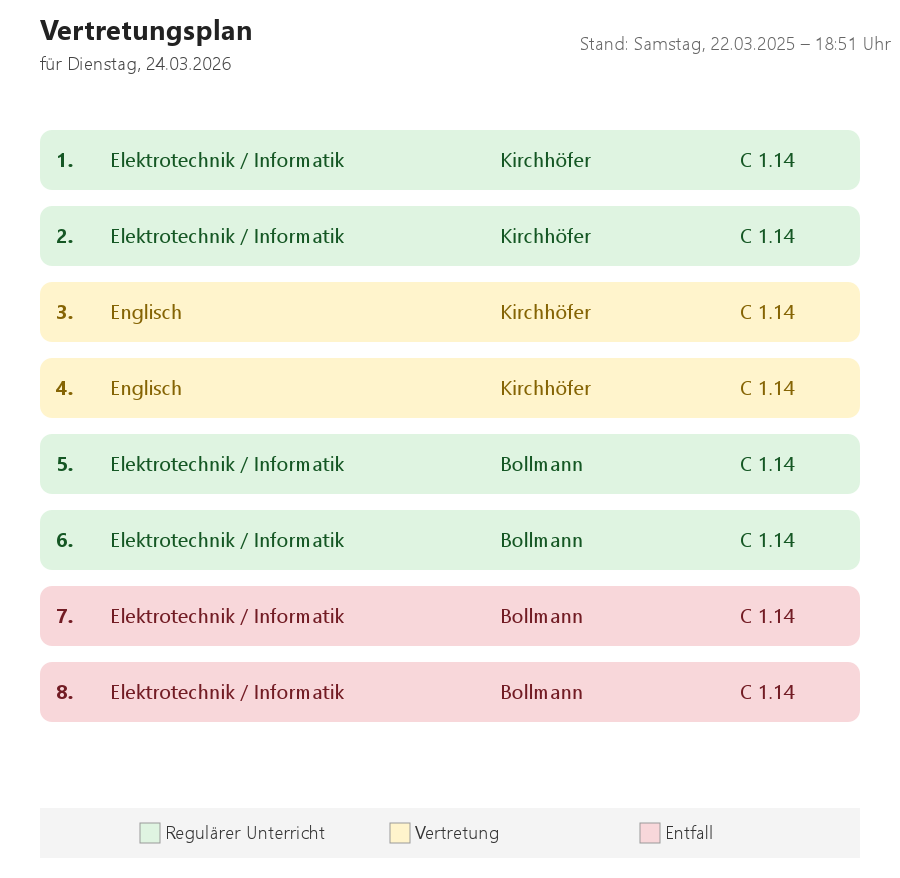
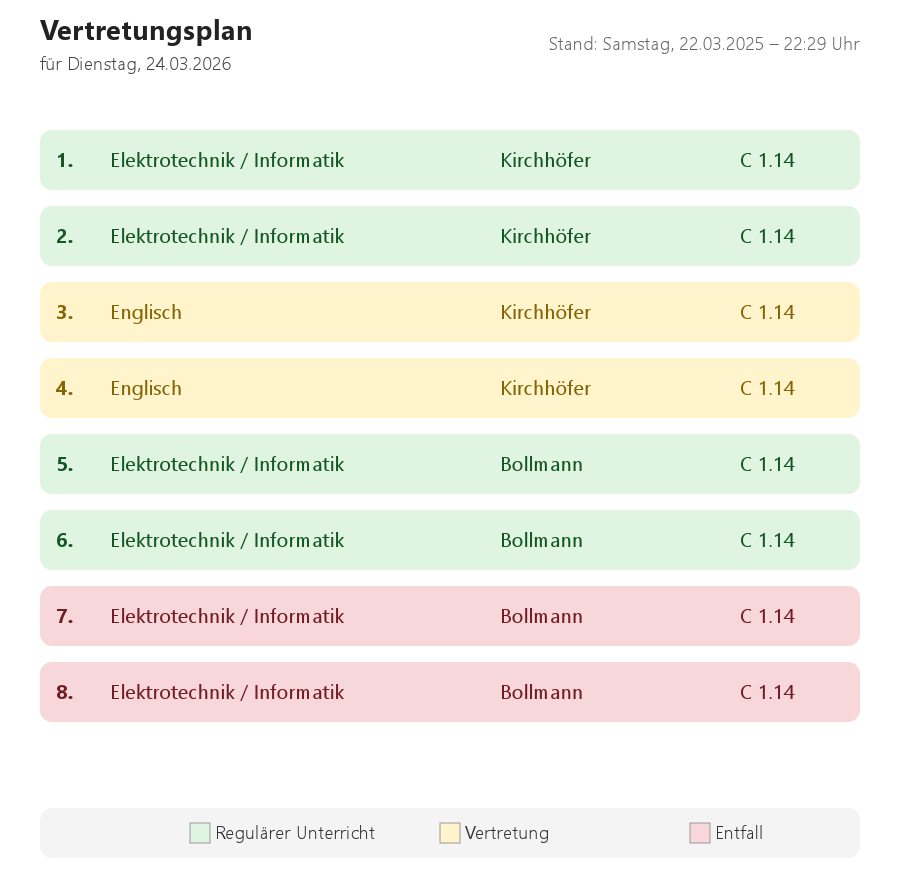
some changes

diff --git a/index.js b/index.js
@@ -4,6 +4,9 @@ const fs = require('fs');
 // 📅 Plan-Datum hier anpassen
 const PLAN_DATUM = new Date('2026-03-24'); // <-- Hier kannst du das Datum setzen
 
+// Beispiel-Daten
+const data = [{"Stunde":1,"Lehrkraft":"Kirchhöfer","Fach":"Elektrotechnik / Informatik","Raum":"C 1.14","Zusatzinfo":"","entfall":false,"vertretung":false,"originalLehrkraft":null},{"Stunde":2,"Lehrkraft":"Kirchhöfer","Fach":"Elektrotechnik / Informatik","Raum":"C 1.14","Zusatzinfo":"","entfall":false,"vertretung":false,"originalLehrkraft":null},{"Stunde":3,"Lehrkraft":"Kirchhöfer","Fach":"Englisch","Raum":"C 1.14","Zusatzinfo":", ","entfall":false,"vertretung":true,"originalLehrkraft":"Du Chesne"},{"Stunde":4,"Lehrkraft":"Kirchhöfer","Fach":"Englisch","Raum":"C 1.14","Zusatzinfo":", ","entfall":false,"vertretung":true,"originalLehrkraft":"Du Chesne"},{"Stunde":5,"Lehrkraft":"Bollmann","Fach":"Elektrotechnik / Informatik","Raum":"C 1.14","Zusatzinfo":"Arbeitsauftrag bei Ilias, Arbeitsauftrag bei Ilias","entfall":false,"vertretung":false,"originalLehrkraft":null},{"Stunde":6,"Lehrkraft":"Bollmann","Fach":"Elektrotechnik / Informatik","Raum":"C 1.14","Zusatzinfo":"Arbeitsauftrag bei Ilias, Arbeitsauftrag bei Ilias","entfall":false,"vertretung":false,"originalLehrkraft":null},{"Stunde":7,"Lehrkraft":"Bollmann","Fach":"Elektrotechnik / Informatik","Raum":"C 1.14","Zusatzinfo":"","entfall":true,"vertretung":false,"originalLehrkraft":null},{"Stunde":8,"Lehrkraft":"Bollmann","Fach":"Elektrotechnik / Informatik","Raum":"C 1.14","Zusatzinfo":"","entfall":true,"vertretung":false,"originalLehrkraft":null}];
+
 // 🔧 Layout-Settings
 const width = 900;
 const marginX = 40;
@@ -15,9 +18,6 @@ const cardRadius = 12;
 const headerHeight = 70;
 const numRows = 8;
 const height = marginY * 2 + headerHeight + (cardHeight + cardGap) * numRows + footerHeight;
-
-// Beispiel-Daten
-const data = [{"Stunde":1,"Lehrkraft":"Kirchhöfer","Fach":"Elektrotechnik / Informatik","Raum":"C 1.14","Zusatzinfo":"","entfall":false,"vertretung":false,"originalLehrkraft":null},{"Stunde":2,"Lehrkraft":"Kirchhöfer","Fach":"Elektrotechnik / Informatik","Raum":"C 1.14","Zusatzinfo":"","entfall":false,"vertretung":false,"originalLehrkraft":null},{"Stunde":3,"Lehrkraft":"Kirchhöfer","Fach":"Englisch","Raum":"C 1.14","Zusatzinfo":", ","entfall":false,"vertretung":true,"originalLehrkraft":"Du Chesne"},{"Stunde":4,"Lehrkraft":"Kirchhöfer","Fach":"Englisch","Raum":"C 1.14","Zusatzinfo":", ","entfall":false,"vertretung":true,"originalLehrkraft":"Du Chesne"},{"Stunde":5,"Lehrkraft":"Bollmann","Fach":"Elektrotechnik / Informatik","Raum":"C 1.14","Zusatzinfo":"Arbeitsauftrag bei Ilias, Arbeitsauftrag bei Ilias","entfall":false,"vertretung":false,"originalLehrkraft":null},{"Stunde":6,"Lehrkraft":"Bollmann","Fach":"Elektrotechnik / Informatik","Raum":"C 1.14","Zusatzinfo":"Arbeitsauftrag bei Ilias, Arbeitsauftrag bei Ilias","entfall":false,"vertretung":false,"originalLehrkraft":null},{"Stunde":7,"Lehrkraft":"Bollmann","Fach":"Elektrotechnik / Informatik","Raum":"C 1.14","Zusatzinfo":"","entfall":true,"vertretung":false,"originalLehrkraft":null},{"Stunde":8,"Lehrkraft":"Bollmann","Fach":"Elektrotechnik / Informatik","Raum":"C 1.14","Zusatzinfo":"","entfall":true,"vertretung":false,"originalLehrkraft":null}];
 
 // 🎨 Farben
 const STATUS = {
@@ -66,70 +66,67 @@ const stand = now.toLocaleDateString('de-DE', {
 });
 const zeit = now.toLocaleTimeString('de-DE', { hour: '2-digit', minute: '2-digit' });
 ctx.fillStyle = '#666';
-ctx.fillText(`Stand: ${stand} – ${zeit} Uhr`, width - 320, marginY - 10);
+const textWidth = ctx.measureText(`Stand: ${stand} – ${zeit} Uhr`).width + marginX;
+ctx.fillText(`Stand: ${stand} – ${zeit} Uhr`, width - textWidth, marginY - 10);
 
-// 📦 Cards
-const startY = marginY + headerHeight;
-const baselineOffset = cardHeight / 2 + 7;
-
-data.forEach((entry, i) => {
-    const y = startY + i * (cardHeight + cardGap);
+// Helper-Funktion, um eine Karte für einen Eintrag zu zeichnen
+function drawCard(entry, index) {
+    const startY = marginY + headerHeight;
+    const y = startY + index * (cardHeight + cardGap);
     const x = marginX;
     const w = width - 2 * marginX;
-
-    const status = entry.entfall
-        ? STATUS.entfall
-        : entry.vertretung
-        ? STATUS.vertretung
-        : STATUS.normal;
-
+    const status = entry.entfall ? STATUS.entfall : entry.vertretung ? STATUS.vertretung : STATUS.normal;
     // Hintergrundkarte
     ctx.fillStyle = status.bg;
     ctx.beginPath();
     ctx.roundRect(x, y, w, cardHeight, cardRadius);
     ctx.fill();
-
     // Text
+    const baselineOffset = cardHeight / 2 + 7;
     ctx.fillStyle = status.text;
-    const textY = y + baselineOffset;
     ctx.font = boldFont;
-    ctx.fillText(`${entry.Stunde}.`, x + 16, textY);
-
+    ctx.fillText(`${entry.Stunde}.`, x + 16, y + baselineOffset);
     ctx.font = '20px "Segoe UI", sans-serif';
-    ctx.fillText(entry.Fach, x + 70, textY);
-    ctx.fillText(entry.Lehrkraft, x + 460, textY);
-    ctx.fillText(entry.Raum, x + 700, textY);
+    ctx.fillText(entry.Fach, x + 70, y + baselineOffset);
+    ctx.fillText(entry.Lehrkraft, x + 460, y + baselineOffset);
+    ctx.fillText(entry.Raum, x + 700, y + baselineOffset);
+}
+
+// Helper-Funktion, um die Legende zu zeichnen
+function drawLegend() {
+    const legendY = height - footerHeight + 25;
+    ctx.fillStyle = '#f4f4f4';
+    ctx.beginPath();
+    ctx.roundRect(marginX, legendY - 15, width - 2 * marginX, 50, cardRadius);
+    ctx.fill();
+  
+    const legenden = [
+        { color: STATUS.normal.bg, label: 'Regulärer Unterricht' },
+        { color: STATUS.vertretung.bg, label: 'Vertretung' },
+        { color: STATUS.entfall.bg, label: 'Entfall' }
+    ];
+    ctx.font = smallFont;
+    legenden.forEach((item, i) => {
+        const boxX = marginX + i * 250 + width / 6;
+        const boxY = legendY;
+        // Box
+        ctx.fillStyle = item.color;
+        ctx.fillRect(boxX, boxY, 20, 20);
+        ctx.strokeStyle = '#999';
+        ctx.strokeRect(boxX, boxY, 20, 20);
+        // Text
+        ctx.fillStyle = '#333';
+        ctx.fillText(item.label, boxX + 25, boxY + 16);
+    });
+}
+
+// 📦 Cards
+data.forEach((entry, i) => {
+    drawCard(entry, i);
 });
 
 // 📚 Legende (zentriert)
-const legendY = height - footerHeight + 25;
-ctx.fillStyle = '#f4f4f4';
-ctx.fillRect(marginX, legendY - 15, width - 2 * marginX, 50);
-
-const legenden = [
-    { color: STATUS.normal.bg, label: 'Regulärer Unterricht' },
-    { color: STATUS.vertretung.bg, label: 'Vertretung' },
-    { color: STATUS.entfall.bg, label: 'Entfall' }
-];
-
-ctx.font = smallFont;
-
-legenden.forEach((item, i) => {
-    const boxX = marginX + i * 250 + 100;
-    const boxY = legendY;
-    const text = item.label;
-    // Box
-    ctx.fillStyle = item.color;
-    ctx.fillRect(boxX, boxY, 20, 20);
-    ctx.strokeStyle = '#999';
-    ctx.strokeRect(boxX, boxY, 20, 20);
-
-    // Text zentriert daneben
-    ctx.fillStyle = '#333';
-    const textX = boxX + 25
-    const textY = boxY + 16;
-    ctx.fillText(text, textX, textY);
-});
+drawLegend();
 
 // 💾 Export
 const buffer = canvas.toBuffer('image/png');
